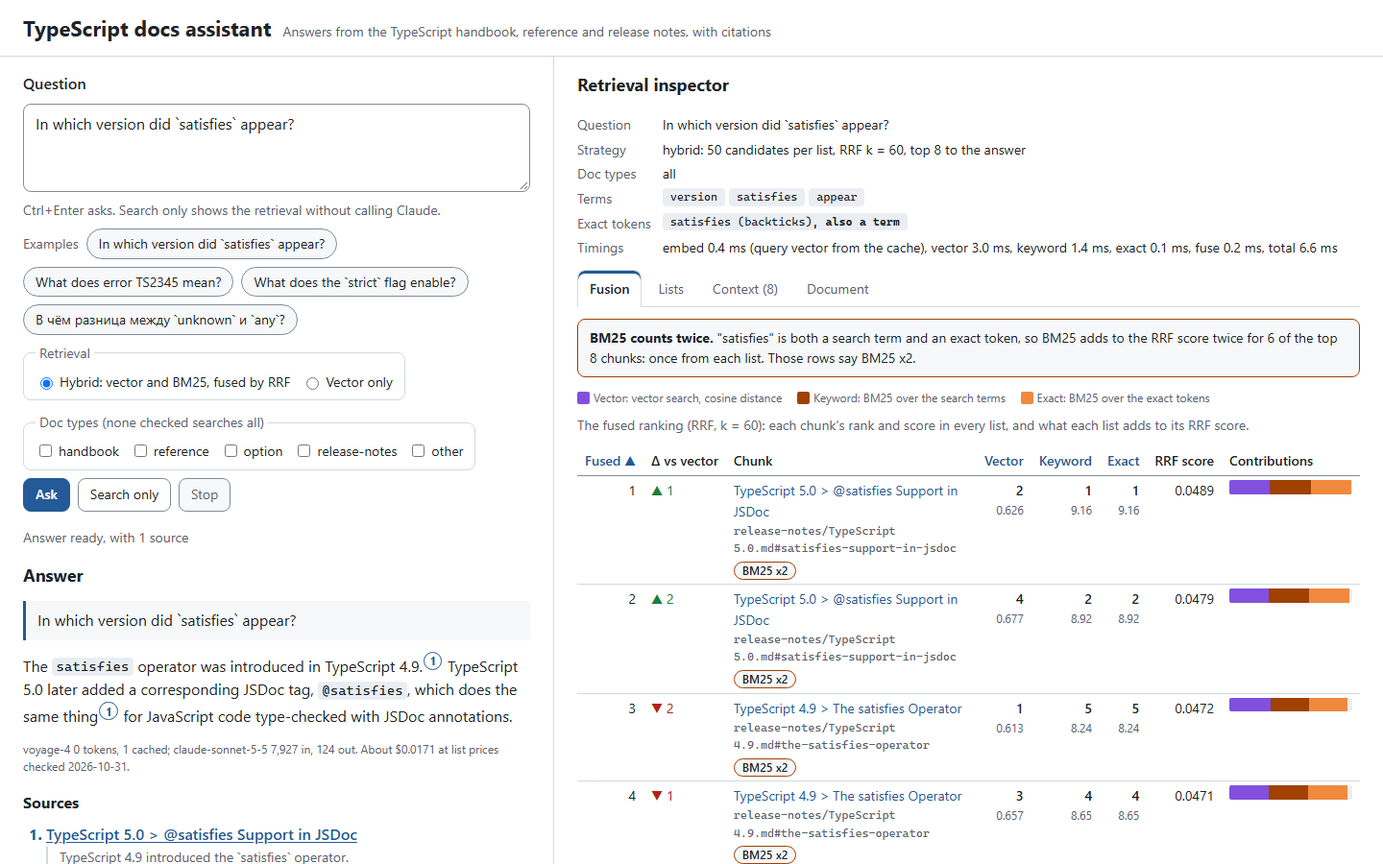
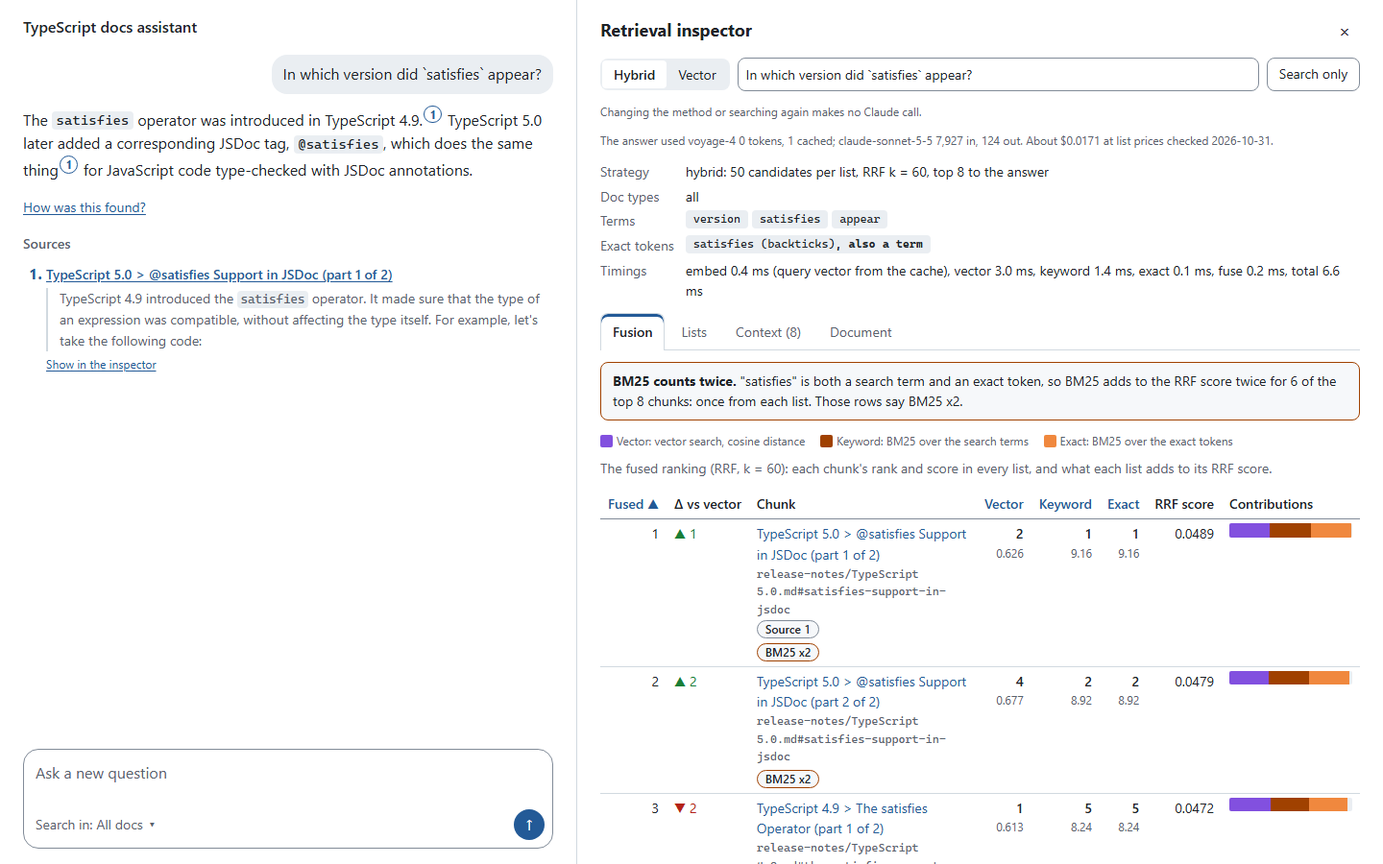
docs: the UX pass in the ADRs, SPEC, README and journal
ADR-0008 gets section 9 and corrections where the pass changed it: the marker
rule, the chat of independent questions, one button for Send and Stop, the
fixtures, including the one that is not verbatim. ADR-0004 moves to chunker
version 4. SPEC sections 6 and 9 name part in the metadata and the title. The
README describes the inspector on demand, with new screenshots. The journal has
before and after, the live check and the spend.

diff --git a/docs/adr/0008-ts-docs-app-and-ui.md b/docs/adr/0008-ts-docs-app-and-ui.md
@@ -3,6 +3,7 @@
 - Status: accepted
 - Date: 2026-11-01
 - Milestone: M3
+- Updated: 2026-11-02, the UX pass before M4 (section 9)
 - Amends ADR-0001 (the app has a build task; versions of the deferred dependencies)
 
 ## Context
@@ -30,14 +31,14 @@ Before any engine change, a throwaway Next.js 16.4.3 app in a separate worktree 
 ### 2. The app is thin
 
 `apps/ts-docs` holds config, a page and three routes:
-- **`rag.config.ts`** holds only what belongs to the app: ID, source, title, tagline, theme and example questions, checked by `defineDocsApp` from ui. Engine values come from settings (ADR-0007). The page passes `settings.retrieval.strategy` and core's `DOC_TYPES` to the client component.
+- **`rag.config.ts`** holds only what belongs to the app: ID, source, title, tagline, theme, example questions, the input's placeholder and plain names for the doc types, checked by `defineDocsApp` from ui. Engine values come from settings (ADR-0007). The page passes `settings.retrieval.strategy` and core's `DOC_TYPES` to the client component.
 - **Routes** are one line each. They call handlers in `src/server/handlers.ts`, which take a `Request` and return a `Response`, so they are tested without Next.js:
   - `POST /api/ask` streams `AnswerEvent`s as NDJSON (ADR-0006). The response waits for the first event, so a request the engine refuses still gets a status code: 400 for a bad field or an unknown source, 503 when there is no index yet, 500 for a missing key. After the first event, a failure is sent as an `error` event and logged on the server. `ask()` gets the request's signal combined with one that fires when the response body is cancelled, so closing the tab stops the Claude stream even if one of the two never fires, and no error event is sent once the browser has gone.
-  - `POST /api/search` returns the trace. It makes no Claude call, which makes "Search only" free apart from an uncached query embedding.
+  - `POST /api/search` returns the trace. It makes no Claude call, which makes "Search only" and the inspector's Hybrid/Vector toggle free apart from an uncached query embedding.
   - `GET /api/documents?source=&path=` returns a document's chunks in order, for the inspector's chunk boundaries.
 - **Request bodies** go through `parseRetrievalRequest` from contracts first: shape only, unknown fields refused, questions capped at 2,000 characters. The engine then checks the values (ADR-0006).
 - **One engine per server process**, built on the first request, for the source `rag.config.ts` names. The rate limiter must see every request, or Voyage's 3 requests per minute would not hold across them. The root dotenv file is loaded there with core's `loadRootEnv`, because Next.js only reads the app folder's own.
-- **`next.config.ts`:** `serverExternalPackages: ['better-sqlite3', 'sqlite-vec']`, `turbopack.root` and `outputFileTracingRoot` at the repository root, and `agentRules: false`.
+- **`next.config.ts`:** `serverExternalPackages: ['better-sqlite3', 'sqlite-vec']`, `turbopack.root` and `outputFileTracingRoot` at the repository root, `agentRules: false`, and `devIndicators: false`, because Next's indicator covers the page's bottom-left corner.
 - **Scripts:**
   - `typecheck` is `next typegen && tsc --noEmit`, so route types exist before tsc runs;
   - `build` is `next build`. CI runs it, because bundling problems only show there. This is the repository's only build task: packages still ship their TypeScript source (ADR-0001);
@@ -57,7 +58,7 @@ Claude answers in markdown, rendered with react-markdown:
 - **React-markdown's default URL sanitizing stays,** so `javascript:` and other unsafe URLs are dropped.
 - **Only http(s) links render as links.** They open in a new tab with `rel="noopener noreferrer"`, and say so to screen readers. Other links render as their text, so a relative URL cannot point into the app.
 - **Images render as their alt text,** so an answer cannot load anything from another site.
-- **Citation markers** become links to `#cite-<n>` in the markdown, placed right after the text they cite (before trailing whitespace, so a marker never starts a paragraph). After a closing code fence a marker starts its own line, because text after a closing fence keeps the code block open. The renderer turns them into buttons named after their source.
+- **Citation markers** become links to `#cite-<n>` in the markdown, placed right after the text they cite (before trailing whitespace, so a marker never starts a paragraph). A marker right after a code block goes on the last line of text before that block: text on the closing fence line would keep the code block open, and a marker on a line of its own reads as a lone number. It keeps its own line only when nothing comes before the block. The renderer turns them into buttons named after their source.
 
 - **GFM adds tables, and no way around these rules.** Claude often answers with a table, so `remark-gfm` is on. Task lists render as text, so an answer adds no form controls. Only two tildes strike through, because `singleTilde` would catch version ranges like `~5.0`. Autolinks follow the http(s) rule.
 - **Tables and code blocks scroll in their own box** (`ScrollRegion`), so the page does not: a focusable group with a name, the table's taken from its column headers. The arrow keys scroll it, and axe's scrollable-region rule accepts it. It is a group rather than a region, so several in one answer do not each add a landmark.
@@ -71,8 +72,8 @@ Two details came from a real recorded answer with a table:
 ### 5. ui
 
 - **One public component.** The app renders `DocsAssistant` from a server component with serializable props: endpoints, not a fetch function. Stories and tests pass a `transport` that replays recorded data instead. The other components are its parts and stay private.
-- **One question at a time.** Each question is independent: no conversation history is sent to Claude, and the inspector shows one trace. A new question replaces the last.
-- **State** is a pure reducer over `AnswerEvent`s, unit tested, which also says what the status region announces.
+- **A chat of independent questions.** No conversation history is sent to Claude, so after the first question the input says "Ask a new question". Earlier questions stay on the page, each with its sources and its trace. A new question stops one still running, which stays as it was, marked "Stopped".
+- **State** is a pure reducer over `AnswerEvent`s for each exchange, and a second one over the list of exchanges, both unit tested. The first also says what the status region announces.
 - **Styling:** CSS Modules. `tokens.css` holds colours, spacing, radii and fonts as custom properties, light and dark through `prefers-color-scheme`. The app's accent comes from `rag.config.ts` as a light and a dark shade, because one colour cannot reach 4.5:1 on both backgrounds. TypeScript blue `#3178c6` reaches only 4.4:1 on white, so the app uses `#235a97` in light mode and `#79b8ff` in dark mode.
 - **The fusion view** turns the trace into rows, with pure, tested functions: each list's rank, score and `1 / (k + rank)` contribution, the Δ against the vector rank, and which chunks BM25 counts twice. Contribution bars are drawn against the highest possible score, first place in every list, so bars compare across questions.
 
@@ -88,9 +89,11 @@ The conditions from the M3 approval, and how each is met:
 
 Also:
 - each focusable element shows a 2px focus outline (`:focus-visible`);
-- the Stop button is `aria-disabled`, not `disabled`, so it keeps focus when a run ends;
+- Send and Stop are one button that changes role, so it keeps focus when a run starts or ends, and no button is ever disabled;
+- opening the inspector moves focus into it, and closing it returns focus to what opened it, or to the input if that has gone;
+- the input sticks to the bottom of the page, except in windows under 30rem tall, with `scroll-padding` so it never hides a focused element (WCAG 2.4.11);
 - the selected chunk is marked with `aria-current` and a visible "selected" label, not only a background. Selecting is not a toggle, so there is no `aria-pressed`;
-- a citation button moves focus to its chunk in the Context tab, once: DocsAssistant clears the request when it is done, so coming back to the tab later leaves focus in the tab list;
+- a citation button moves focus to its chunk in the Context tab, once: `useInspectorPanel` clears the request when it is done, so coming back to the tab later leaves focus in the tab list;
 - each rank cell reads "1, score 9.16", not "19.16", through visually hidden text.
 
 ### 7. Every story is a test
@@ -106,15 +109,18 @@ Play functions cover the conditions in section 6:
 - sorting with Enter and Space on the header buttons, and `aria-sort` moving with it;
 - the tabs with the arrow keys, Home and End, and the single tab stop;
 - a citation moving focus to its chunk, and the tab list keeping focus afterwards;
-- a new question replacing one still streaming, with nothing of the first reaching the page;
+- a new question stopping one still streaming, which stays in the chat as it was, with nothing more reaching it;
+- the inspector opening on demand, with focus going in and coming back;
+- the toggle calling `search` and never `ask`, with a spy, and a search beside a streaming answer leaving that answer alone;
 - the status texts, and Stop;
-- reflow at a real 320 by 256 viewport (`Reflow320`): on each tab it walks every element and fails on anything past the page edge, or any sideways scroller but a table's or code block's box. It also checks that a table and a code block really overflow there, so axe's scrollable-region rule has something to check.
+- reflow at a real 320 by 256 viewport (`Reflow320`): in the empty state, with the panel closed, and on each tab with it open, it walks every element and fails on anything past the page edge, or any sideways scroller but a table's or code block's box. It also checks that a table and a code block really overflow there, so axe's scrollable-region rule has something to check.
 
 **A test controls when a replay moves on.** A story that checks anything but the final state uses a `ReplayGate`, never a timer: each step of the replay waits until the test releases it, so a state lasts as long as the test needs, however slow the machine is. An earlier version checked a state its replay held for 15 ms, and moving that check to a 400 ms delay only made the race rarer. The replay can also keep sending after its abort (`ignoresAbort`), as a real response does with a chunk it has read, which is the only way to test that `useAssistant` drops those events. A story that waits only for a final state may use a delay, which is there to watch it stream in Storybook. Its limit, 10s for `findBy*` and `waitFor`, is a bound on failure, not something a passing test waits for.
 
 Stories replay recorded fixtures with no network:
 - three real traces from `drl search --json` (`satisfies`, TS2345, ts-0004) and a vector-only trace;
-- two recorded answer streams: the `satisfies` answer ($0.0171), and one with a table with cited cells and two code blocks ($0.0238);
+- four recorded answer streams: the `satisfies` answer ($0.0171), one with a table with cited cells and two code blocks ($0.0238), and two with long and fenced excerpts for the sources ($0.0234, $0.0248);
+- one derived answer stream, the only fixture that is not verbatim, and its file name says so: a real answer about `--strict` ($0.0185) with its first citation event moved to right after its code block. That shape depends on how Claude splits citation blocks. It happened in a live run, but five recording attempts did not reproduce it;
 - one document's chunks.
 
 Every excerpt of the docs in them is cut to 300 characters (NOTICE: short excerpts).
@@ -144,6 +150,36 @@ Checked on npm on 2026-11-01. Every version was more than a day old.
 
 pnpm 12 fails an install when a dependency has a build script that `allowBuilds` does not list. Storybook brings esbuild, whose script only checks its platform binary, which the optional `@esbuild/<platform>` package already provides. It is listed as `esbuild: false`.
 
+### 9. The UX pass before M4
+
+Trying the app showed that it read like an admin panel. It serves someone asking a question and someone exploring how retrieval works, and it showed both everything at once. The default view now serves the first, and the inspector opens on demand for the second.
+
+**The default view:**
+- A centered column, 760px at most, with one input and its button inside it. Enter sends and Shift+Enter adds a line; Enter that confirms a word in an input method does neither.
+- The examples show only before the first question, and send at once.
+- The question becomes the user's message, as an `<h2>`, so a screen reader can jump between questions.
+- "Search in: All docs" replaces the fieldset of checkboxes: a disclosure button over native checkboxes, with names from `rag.config.ts`. Esc or a click elsewhere closes it. A multi-select listbox would have more keys to learn and nothing to gain.
+- Tokens and cost move into the inspector with the other jargon. The status region stays, and its text is hidden visually once nothing is running.
+
+**The inspector:**
+- `InspectorPanel` opens from "How was this found?" under each finished answer, or from a citation, which opens it on that chunk. From 64rem up it sits beside the chat with its own scroll; under that it stacks below the chat.
+- It is a top-level `<aside>`, beside `main`, because a complementary landmark must not nest in another one.
+- An open panel moves on to a new question and starts clean. What opened it belongs to an earlier answer then, so closing it goes to the input.
+
+**Its controls make no Claude call:**
+- The Hybrid/Vector toggle (native radios) re-runs the search field's text, so comparing methods is one free click. It also sets the method for the next question.
+- The search field starts with the question and can be edited, with "Search only" next to it. Both use the doc types chosen next to the chat's input.
+- `useFreshSearch` has its own abort, so a search never touches a streaming answer, and a newer one replaces an older one.
+- A line that is also the panel's status region says what the trace below is: the answer's, or "Showing a fresh vector search, with no Claude call. The answer came from hybrid search." A citation drops a fresh search, because it points into the answer's own trace.
+- **A consequence we accepted:** the inspector opens only from an answer, so a fresh page cannot reach Search only until one answer has been paid for, about $0.02.
+
+**The bugs:**
+- **One numbering, the citation's.** Rows for a cited chunk carry a "Source N" badge in all four tabs, and the button says "Show in the inspector". The context rank stays as plain text in the Context tab, where it means something else.
+- **Parts.** Sections that split gave their chunks identical labels. `CHUNKER_VERSION` 4 records `part` (ADR-0004), `TRACE_VERSION` 3 carries it, and `chunkLabel` in contracts is the one wording, for the title sent to Claude, the CLI and ui. Titles are not searched, so rankings cannot change, and 20 of 20 M2 searches came back identical.
+- **Excerpts render as markdown,** with the same renderer as the answer. Their headings render as bold text, so they do not join the page's outline. `excerptPreview` cuts a long one at a line boundary and closes an open fence, so the preview is still valid markdown.
+
+**What a citation needs goes through context,** not into react-markdown's component map. A new map remounted the whole answer on every new callback or citation, which took focus off a citation. The map is now constant.
+
 ## Consequences
 
 - One code path serves the CLI and the app. The routes add only parsing, status codes and the stream.
@@ -159,4 +195,6 @@ pnpm 12 fails an install when a dependency has a build script that `allowBuilds`
 - **Storybook's separate test-runner.** It needs a running Storybook. `addon-vitest` runs the stories inside the existing Vitest setup and turbo's `test` task.
 - **An `aria-live` answer.** A screen reader would read every streamed delta. The status region says when the state changes instead.
 - **Binding to all interfaces with a shared token.** That adds secrets to manage for an app that only ever runs on the developer's machine.
+- **A modal inspector.** Comparing the trace with the answer is the point, so the answer has to stay in reach. The panel traps nothing, and only Esc inside it closes it.
+- **An entry point for Search only in the empty state.** It would be free, but it would put retrieval back in front of someone who came to ask a question.
 - **`transpilePackages` for the workspace packages.** The spike showed Turbopack compiles them without it, so it would be config with no effect.

diff --git a/docs/journal.md b/docs/journal.md
@@ -2,6 +2,45 @@
 
 Short notes per milestone, with before/after numbers where they exist. Newest first.
 
+## M3 follow-up - A UX pass, before M4 (2026-11-02)
+
+Trying the app in Chrome showed that it read like an admin panel: it showed someone asking a question everything it knows about retrieval. Now the chat comes first, and the inspector opens on demand. Five bugs went with it. Decisions are in ADR-0008, section 9.
+
+| | Before | After |
+|---|---|---|
+| Tab stops before the first question | 14 (counted from the old form's markup) | 7 |
+| Inspector on the first view | Always, with a paragraph explaining itself | Closed until asked for |
+| Comparing Hybrid and Vector for one question | Choose in the form, press Search only, and the answer leaves the page | One click on the toggle: one `/api/search`, no `/api/ask`, and the answer stays |
+| Labels shared by chunks of one document | 102, covering 231 of 994 chunks | 0 |
+| Fences and asterisks shown as text in sources | Whole ```` ```ts ```` fences | None in the 4 live answers |
+| Numberings for one chunk | 2: "citation 1" could say "Show chunk 2" | 1: "Source N" in the chat and all four tabs |
+| Lone citation markers | A marker alone after a code block | None in the 4 live answers, and a story on a derived fixture |
+| Stories, each a test in Chromium with axe in light and dark | 28 | 58 |
+
+**Parts came at no cost:** `CHUNKER_VERSION` 4 forced a re-parse of 3.4s and 0 tokens. The keyword index, every embedding and the chunk text stayed byte-identical (`665fa74c8077a848`, `d2f55731ce8a7ba5`), and 20 of 20 M2 searches came back with the same rankings and contexts. The part in the title sent to Claude adds about 7 tokens per split chunk. The recorded traces have 0 to 4 such chunks of 8, against about 8,000 input tokens.
+
+**Still shared:** 2 labels across 4 chunks, because upstream gives two pages the same title: `TSConfig Option: exclude` and `include`, under `options/` and `options/typeAcquisition/`. They are separate documents, with their own locations and links, so this PR leaves them.
+
+**Checked on the live app, over the real index:**
+- The 4 example questions, each with "How was this found?", all four tabs and the toggle. Search only with edited text sent one `/api/search`, and neither it nor the toggle sent an `/api/ask`.
+- axe found nothing in 42 states: empty, Search in open, answers, the panel on each tab, vector, 320 and 390 px wide, and dark.
+- A keyboard-only run from the input to the panel and back, with a visible focus style at every stop.
+- 63 of 64 checks passed. The last was my check for Next's indicator, which matched 3 empty 0 by 0 elements: nothing shows in the screenshots.
+
+| Question | Sources | Cost |
+|---|---|---|
+| In which version did `satisfies` appear? | 1 | about $0.017 (its usage line was not captured; the recorded one is $0.0171) |
+| What does error TS2345 mean? | 5 | $0.0251 |
+| What does the `strict` flag enable? | 4 | $0.0219 |
+| ts-0004, В чём разница между `unknown` и `any`? | 4 | $0.0237 |
+
+Total spend for this pass: about $0.21, of which $0.1202 went on 6 recordings while planning.
+
+**What was surprising:**
+- **A citation could not get focus back.** The first story for it failed: focus landed in the input. The markdown component map depended on `onCitation`, so a new callback built a new map, and React remounted the whole answer, citation included. The same thing happened during streaming each time a new citation arrived, and scrolled code boxes lost their place. The map is now a constant, and what a citation needs comes through context.
+- **A double focus ring that no story could see.** `outline: none` on the input ties with the global `:focus-visible` rule, and the later rule wins. Storybook and Next load CSS in a different order, so it only showed on the live app, in a screenshot.
+- **The lone marker was my own fix from the last PR.** It stopped a citation from turning the rest of an answer into code by giving the marker its own line. Five recording attempts could not reproduce the shape, so that one story uses a real answer with one event moved, and the file name says so.
+
 ## M3 - The ts-docs app and the retrieval inspector (2026-11-01)
 
 The second M3 PR adds the ui package, Storybook and the Next.js app on top of the engine from the first. `pnpm dev` now opens a TypeScript docs assistant: ask on the left, see on the right how the answer's context was chosen. Decisions are in ADR-0008.

diff --git a/SPEC.md b/SPEC.md
@@ -149,7 +149,7 @@ Notes on the chunk columns:
 - `pk` is an explicit integer key, so VACUUM never renumbers it; it is the chunk's rowid in `chunks_vec`. `id` is the stable chunk ID.
 - `ordinal` is the chunk's 0-based place in its document; the inspector orders chunk boundaries by it. The chunk ID uses a different number, the pack's place within its section.
 - `context` is the contextual retrieval prefix.
-- `metadata` holds things like version_introduced, error_codes and option names, plus `spans`, the character ranges of the rendered blocks in `text`, and `sectionPath`, the heading path of the section the chunk starts in (the one its anchor points to). For a pack of sections, `heading_path` is their common parent, which is empty under the document root.
+- `metadata` holds things like version_introduced, error_codes and option names, plus `spans`, the character ranges of the rendered blocks in `text`, `sectionPath`, the heading path of the section the chunk starts in (the one its anchor points to), and `part`, `{index, total}`, when that section split into several chunks. For a pack of sections, `heading_path` is their common parent, which is empty under the document root.
 
 `manifest.include_paths`, `embed_model` (provider, model and dimensions), `chunker_version` and `parser_version` decide when a sync must rebuild everything (ADR-0004, ADR-0005). A rebuild re-parses every file but embeds only changed text.
 
@@ -291,7 +291,7 @@ Every retrieval returns a **trace object**: plain JSON with a version, holding e
 ### Generation
 - Sonnet receives the retrieved chunks as `search_result` content blocks with citations enabled:
   - `source` = canonical doc URL with anchor;
-  - `title` = doc title + the heading path of the section the chunk starts in (`sectionPath`);
+  - `title` = doc title + the heading path of the section the chunk starts in (`sectionPath`), plus "(part 2 of 3)" when that section split into several chunks;
   - `content` = text blocks, one per rendered block of the chunk, so citations point at precise passages.
 - The response is streamed, and citations are rendered inline in the UI. Core reports an answer as a sequence of events: the trace, text deltas, the citation markers of each cited text block (each citation names its context chunk), then `done` with the stop reason and the usage, tokens and estimated cost (ADR-0006). The CLI prints them; an app route sends them to the browser as NDJSON, one event per line, and ui renders the markdown without raw HTML, with each citation marker as a button that shows its chunk in the inspector (ADR-0008).
 - The system prompt says: answer only from the provided results, and say so when they are not enough.

diff --git a/packages/ui/CLAUDE.md b/packages/ui/CLAUDE.md
@@ -17,8 +17,10 @@ Client components for the docs assistants: chat, citations and the retrieval ins
 - A story that checks anything but the final state holds the replay with a `ReplayGate` and releases it step by step, never a timer. A state then lasts as long as the test needs, however slow the machine is.
 - Stories replay recorded data through `replayTransport`, never the network. Fixtures in `src/__fixtures__/` are real traces and answers, with every docs excerpt cut to 300 characters (NOTICE). Read them through `src/fixtures.ts`.
 - The answer's markdown: GFM for tables, no raw HTML (no rehype-raw), keep react-markdown's URL sanitizing, http(s) links only, opening in a new tab with `rel="noopener noreferrer"`, images as alt text, task lists as text.
+- Anything a react-markdown component needs goes through context, never into the component map. A new map remounts the whole answer, and a focused citation with it.
+- To override the global focus style, name `:focus-visible` in the selector. CSS comes in a different order in Storybook and in the app, so a tie on specificity can pass every story and still lose in the app.
 - Reflow: at 320 CSS px nothing scrolls sideways but a table or code block, in a `ScrollRegion` (focusable and named). `Reflow320` checks it; a new view goes on that story's tab walk.
-- Accessibility: state is never shown by colour alone; tables are real tables; tabs follow the WAI-ARIA tabs pattern; the streaming answer is not a live region, the polite status region announces state changes; animations stop under `prefers-reduced-motion`.
+- Accessibility: state is never shown by colour alone; tables are real tables; tabs follow the WAI-ARIA tabs pattern; the streaming answer is not a live region, the polite status region announces state changes; a panel that opens on demand moves focus in, and returns it to what opened it, or to the input if that has gone; animations stop under `prefers-reduced-motion`.
 - Story tests need Chromium once per machine: `pnpm --filter @docs-rag-lab/ui exec playwright install --only-shell chromium`.
 - No model IDs, prices or API keys in this package. Model names shown in the usage line come from the data.
 - Citations link to the canonical doc URLs carried in the data, never to guessed URLs.

diff --git a/README.md b/README.md
@@ -16,8 +16,8 @@ Everything runs locally. There is no deployment. The full design is in [SPEC.md]
 **M3 (the ts-docs app) is done.** `pnpm dev` starts a TypeScript docs assistant on http://127.0.0.1:3000:
 
 - a streaming answer with numbered citations to the exact doc sections;
-- a retrieval inspector beside it. It shows every candidate list, the fused ranking with each list's part of the RRF score, the chunks sent to Claude, and where each chunk of a document starts and ends;
-- "Search only", which shows the retrieval without calling Claude.
+- a retrieval inspector that opens on demand, from "How was this found?" under an answer or from a citation. It shows every candidate list, the fused ranking with each list's part of the RRF score, the chunks sent to Claude, and where each chunk of a document starts and ends;
+- a Hybrid/Vector toggle and "Search only" in the inspector's header, which re-run the retrieval without calling Claude.
 
 <picture>
   <source media="(prefers-color-scheme: dark)" srcset="docs/images/ts-docs-dark.png">
@@ -75,7 +75,7 @@ pnpm dev                          # the docs assistant on http://127.0.0.1:3000
 | `pnpm drl search "<question>" [--strategy vector|hybrid] [--doc-type <type>] [--json]` | Retrieval only, no Claude call: print the retrieval trace, or with `--json` the whole trace as JSON |
 | `pnpm drl limits` | Show what the Voyage endpoint says about rate limits (one tiny request) |
 | `pnpm test:network` | Opt-in network smoke test: one tiny embedding and one tiny Claude call. Never runs in CI |
-| `pnpm dev` | The ts-docs app on http://127.0.0.1:3000, after `drl sync typescript`. Ask spends tokens; Search only makes no Claude call |
+| `pnpm dev` | The ts-docs app on http://127.0.0.1:3000, after `drl sync typescript`. Asking spends tokens; the inspector's toggle and Search only make no Claude call |
 | `pnpm storybook` | Storybook for the ui package on http://127.0.0.1:6006, with the accessibility panel |
 
 Every `drl` command that calls an API ends with a line of tokens used and estimated cost at list prices.

diff --git a/docs/adr/0004-ingest-design.md b/docs/adr/0004-ingest-design.md
@@ -34,8 +34,9 @@ Superseded in M3 by ADR-0007: the values and their types moved to the leaf packa
 - The 800 budget counts the rendered blocks. The prefix line and the blank lines between blocks come on top. A single code block, or a single line, longer than the budget is never split. In the TypeScript index, 12 of 994 chunks exceed 800: two single code blocks (1,046 and 824) and ten at 802-810 because of the prefix.
 - Chunk text is a `Title > H2 > H3` prefix line, then the rendered blocks. `spans` records each block's character range, so generation can send one citable text block per rendered block.
 - Chunk ID: the first 24 hex characters of `sha256(JSON.stringify([docPath, headingPath, occurrence, ordinal]))`. `occurrence` counts earlier sections with the same heading path in the document; `ordinal` is the pack's position within its section. `text_hash` is `sha256(text)`.
-- `CHUNKER_VERSION` (now 3) is stored in the manifest; changing it forces a full rebuild.
+- `CHUNKER_VERSION` (now 4) is stored in the manifest; changing it forces a full rebuild.
 - Since version 3 (M3), every chunk records `sectionPath`, the heading path of the section it starts in. A pack takes its parent's heading path, which is empty under the document root, so 170 chunks were cited by the document title alone ("TypeScript 5.9" for `#notable-behavioral-changes`) and 73 more by their parent section. Citation titles now use `sectionPath`. The text did not change, so the rebuild embedded nothing.
+- Since version 4 (the UX pass before M4), a chunk of a section that split records `part`, `{index, total}`, and its label says "(part 2 of 3)". Inside a document, 102 labels were shared by 231 of the 994 chunks, and no label is now. The text and IDs did not change: the re-parse took 3.4s and 0 tokens, and the keyword index and every embedding stayed byte-identical.
 
 ### 3. Token counts are estimated locally, billed counts come from the API
 

diff --git a/CLAUDE.md b/CLAUDE.md
@@ -29,7 +29,7 @@ Requires Node 26.13.0 and pnpm 12.16.1. Never list a command here that has not b
 - Retrieval only, no Claude call: `pnpm drl search "<question>"` (add `--strategy vector` for vector search only, `--doc-type option` to filter, `--json` for the whole trace; `ask` takes the same flags)
 - Embedding rate limits: `pnpm drl limits`
 - Network smoke test, spends real tokens: `pnpm test:network`
-- The ts-docs app: `pnpm dev` (http://127.0.0.1:3000; Search only makes no Claude call)
+- The ts-docs app: `pnpm dev` (http://127.0.0.1:3000; the inspector's toggle and Search only make no Claude call)
 - Storybook: `pnpm storybook` (http://127.0.0.1:6006)
 
 `drl` and `test:network` call paid APIs; the CLI loads keys itself, so never pass a dotenv file on the command line. The app's Ask calls them too. Voyage is on the Atlas free trial (3 requests and 10K tokens per minute): a full index takes about an hour, so run it in the background. `pnpm dev` and `pnpm storybook` keep running: start them in the background and stop them when done.
